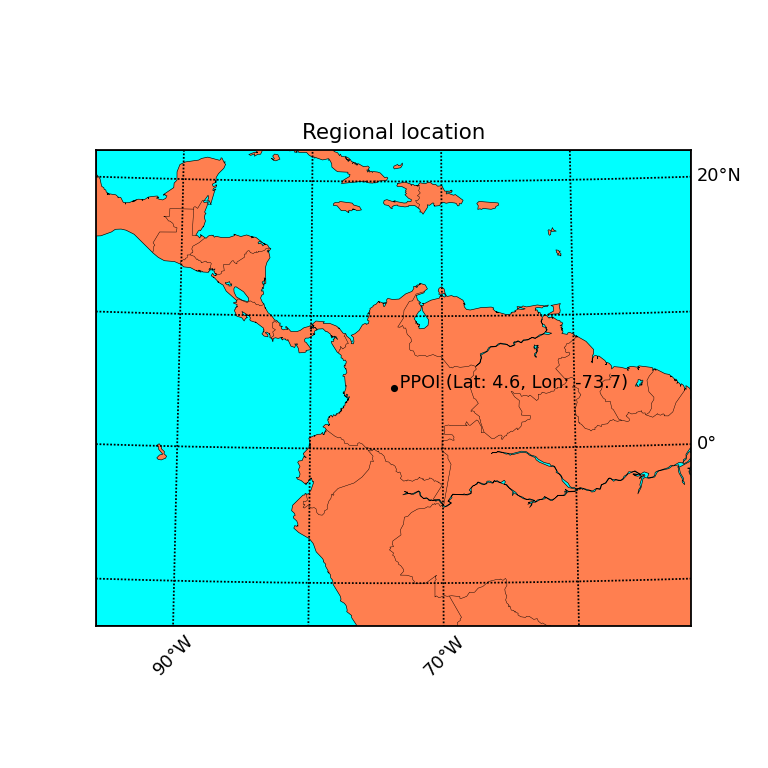
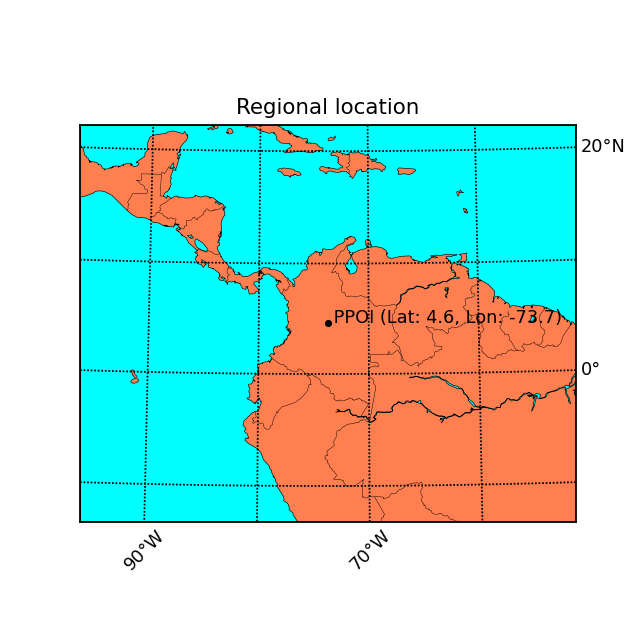
General update.

diff --git a/.src/sawb.py b/.src/sawb.py
@@ -75,6 +75,7 @@ units_mult = ppoi.units_mult
 polygon_eval = ppoi.polygon_eval
 point_eval = ppoi.point_eval
 meridians_sep = ppoi.meridians_sep
+map_polygon_scale_factor = ppoi.map_polygon_scale_factor
 dpi = 128  # Save plot resolution
 show_plot = False  # Verbose plot
 save_spi_nc = True  # Export .nc with SPI values
@@ -117,7 +118,7 @@ sawbf.print_log(file_log, '\n%s \n\n' %sawbd.p_max_plot_desc)
 # General map locations
 # *****************************************************************************************
 projection = ['ortho', 'lcc']
-figsize = (6, 6)
+figsize = (5, 5)
 for i in projection:
     if i == 'ortho':
         fig = plt.figure(figsize=figsize)
@@ -145,11 +146,10 @@ for i in projection:
     meridians = np.arange(10., 351., meridians_sep)
     map.drawmeridians(meridians, labels=[True, False, False, True], rotation=45)
     if show_plot: plt.show()
-    map_fig = ''
     plt.savefig(ppoi_path + 'graph/' + map_file, dpi=dpi)
     plt.close()
-    #sawbf.print_log(file_log, '![R.SAWB](graph/%s)' % map_file, center_div=False, div50=True)
-    sawbf.print_log(file_log, '<img alt="R.LTWB" src="graph/%s" width="500"></img>' % map_file, center_div=False, div50=False)
+    #sawbf.print_log(file_log, '![R.SAWB](graph/%s)' % map_file, center_div=False)
+    sawbf.print_log(file_log, '<img alt="R.LTWB" src="graph/%s" width="500"></img>' % map_file)
 
 
 # *****************************************************************************************
@@ -164,6 +164,48 @@ if polygon_eval or point_eval:
 # SPI - Polygon processing
 if polygon_eval:
     sawbf.print_log(file_log, '\n### Zonal analysis through N: %f°, S: %f°, E: %f°, W: %f°\n\n' % (lim_north, lim_south, lim_east, lim_west))
+    # Plot map
+    meridians_sep = meridians_sep * 2
+    lat_0 = lim_north - (lim_north - lim_south) / 2
+    lon_0 = lim_east - (lim_east - lim_west) / 2
+    width = abs((lim_east - lim_west) / map_polygon_scale_factor) * 1e6
+    height = abs((lim_north - lim_south) / map_polygon_scale_factor) * 1e6
+    base_value = 8
+    aspect_ratio = abs(height / width)
+    if height > width:
+        fig_size_height = base_value * aspect_ratio
+        fig_size_width = base_value
+    else:
+        fig_size_height = base_value
+        fig_size_width = base_value * aspect_ratio
+    fig = plt.figure(figsize=(fig_size_width, fig_size_height))
+    map = Basemap(projection='stere', lat_0=lat_0, lon_0=lon_0, resolution='l', width=width, height=height)
+    map.drawcountries(linewidth=0.25)
+    map.drawcoastlines(linewidth=0.35)
+    map.fillcontinents(color='coral', lake_color='aqua')
+    map.drawmapboundary(fill_color='aqua')
+    map.drawmeridians(np.arange(0, 360, meridians_sep))
+    map.drawparallels(np.arange(-90, 90, meridians_sep))
+    x1, y1 = map(lim_east, lim_north)
+    x2, y2 = map(lim_west, lim_north)
+    x3, y3 = map(lim_west, lim_south)
+    x4, y4 = map(lim_east, lim_south)
+    poly = Polygon([(x1, y1), (x2, y2), (x3, y3), (x4, y4)], facecolor=None, edgecolor='black', linewidth=1.5,
+                   alpha=0.5)
+    plt.gca().add_patch(poly)
+    x, y = map(lon_0, lat_0)
+    plt.plot(x, y, 'ok', markersize=0)
+    plt.text(x, y, ' Case zone (centroid Lat: %s, Lon: %s)' % (lat_0, lon_0), fontsize=10);
+    plt.title('Polygon location')
+    parallels = np.arange(0., 81, meridians_sep)
+    map.drawparallels(parallels, labels=[False, True, True, False])
+    meridians = np.arange(10., 351., meridians_sep)
+    map.drawmeridians(meridians, labels=[True, False, False, True], rotation=45)
+    if show_plot: plt.show()
+    plt.savefig(ppoi_path + 'graph/polygon_map.png', dpi=dpi)
+    plt.close()
+    sawbf.print_log(file_log, '![R.SAWB](graph/%s)' % map_file, center_div=True)
+    # Data processing
     da_data = xr.open_dataset(data_path+nc_file)
     da_data[feature_name[data_source_num]] = da_data[feature_name[data_source_num]] * units_mult
     ds_rr = da_data[feature_name[data_source_num]]

diff --git a/.ppoi/1/ppoi.py b/.ppoi/1/ppoi.py
@@ -9,6 +9,7 @@ sawb_desc = 'The current research.....'
 
 # Global parameters
 meridians_sep = 10  # Separation between meridians or parallels in decimal degrees
+map_polygon_scale_factor = 1  # e.g. 1 for Colombia country, 4 for South America
 
 # SPI - Data source type and NetCDF file
 data_source_num = 1  # 0:CRU, 1:ERA5-Reanalysis
@@ -26,12 +27,12 @@ units_mult = 1000  # ERA5 reanalysis
 p_max_plot = 20  # ERA5 reanalysis with conversion to millimeters
 # p_max_plot = 500  # CRU
 
-# Study zone limit in decimal degrees, °dd
+# Study zone limits in decimal degrees, °dd
 lim_north = 5.735
 lim_south = 3.625
 lim_east = -72.875
 lim_west = -74.875
-polygon_eval = False
+polygon_eval = True
 
 # Point location in decimal degrees, °dd
 point_latitude = 4.6

diff --git a/.src/sawb_functions.py b/.src/sawb_functions.py
@@ -100,16 +100,12 @@ def make_gif(frame_folder, key_name, file_ext):
 
 
 # Function for print and show results in a log file
-def print_log(file_log, txt_print, on_screen=True, center_div=False, div50=False):
+def print_log(file_log, txt_print, on_screen=True, center_div=False):
     # div50 is use for show 2 plots in the same line
     if on_screen:
         print(txt_print)
     if center_div:
         file_log.write('\n<div align="center">\n' + '\n')
-    if div50:
-        file_log.write('<div align="center" width="50%">')
     file_log.write(txt_print)
     if center_div:
-        file_log.write('\n</div>\n' + '\n')
-    if div50:
-        file_log.write('</div>')
+        file_log.write('\n\n</div>\n' + '\n')

diff --git a/.src/old/basemap.py b/.src/old/basemap.py
@@ -107,8 +107,8 @@ for i in projection:
 # Polygon location
 # https://matplotlib.org/basemap/users/examples.html
 # https://stackoverflow.com/questions/12251189/how-to-draw-rectangles-on-a-basemap
-meridians_sep = meridians_sep * 2
 map_polygon_scale_factor = 4  # 1 for Colombia country, 4 for South America
+meridians_sep = meridians_sep * 2
 lat_0 = lim_north-(lim_north-lim_south)/2
 lon_0 = lim_east-(lim_east-lim_west)/2
 width = abs((lim_east-lim_west)/map_polygon_scale_factor)*1e6
